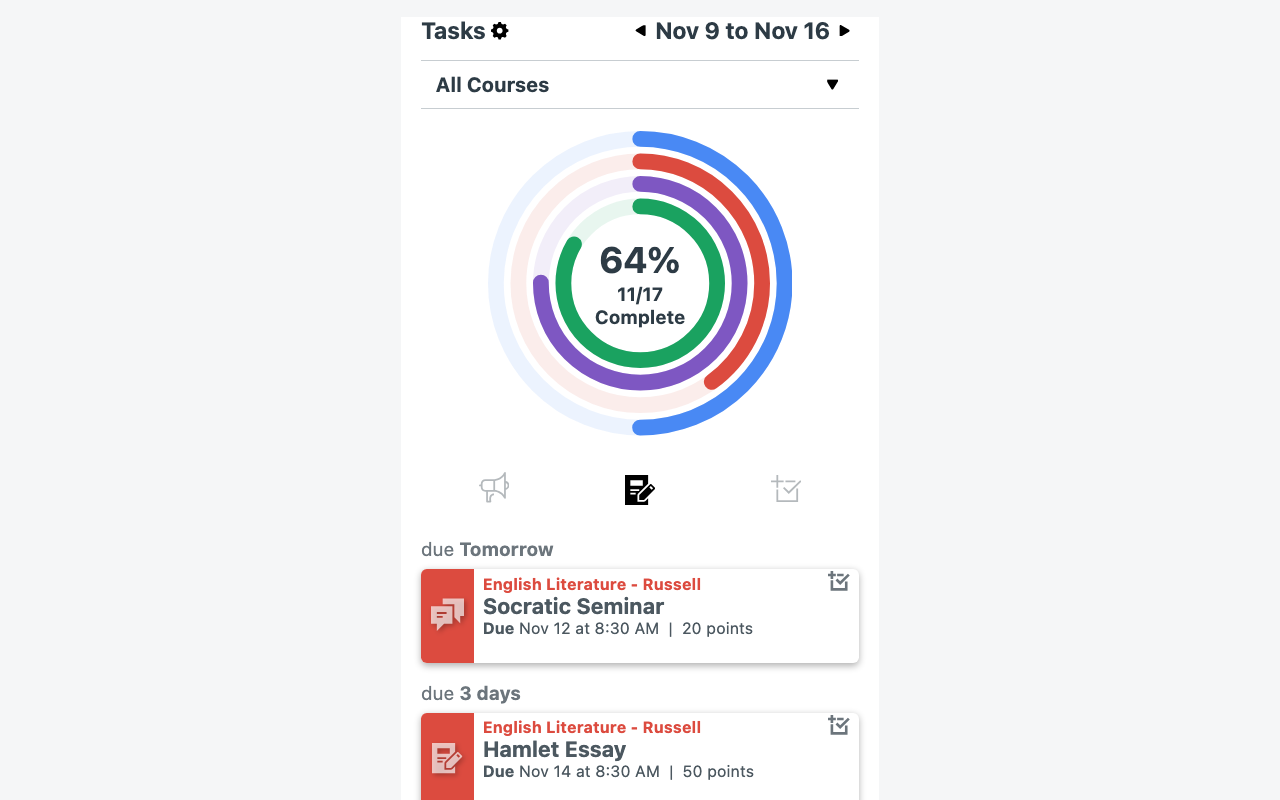
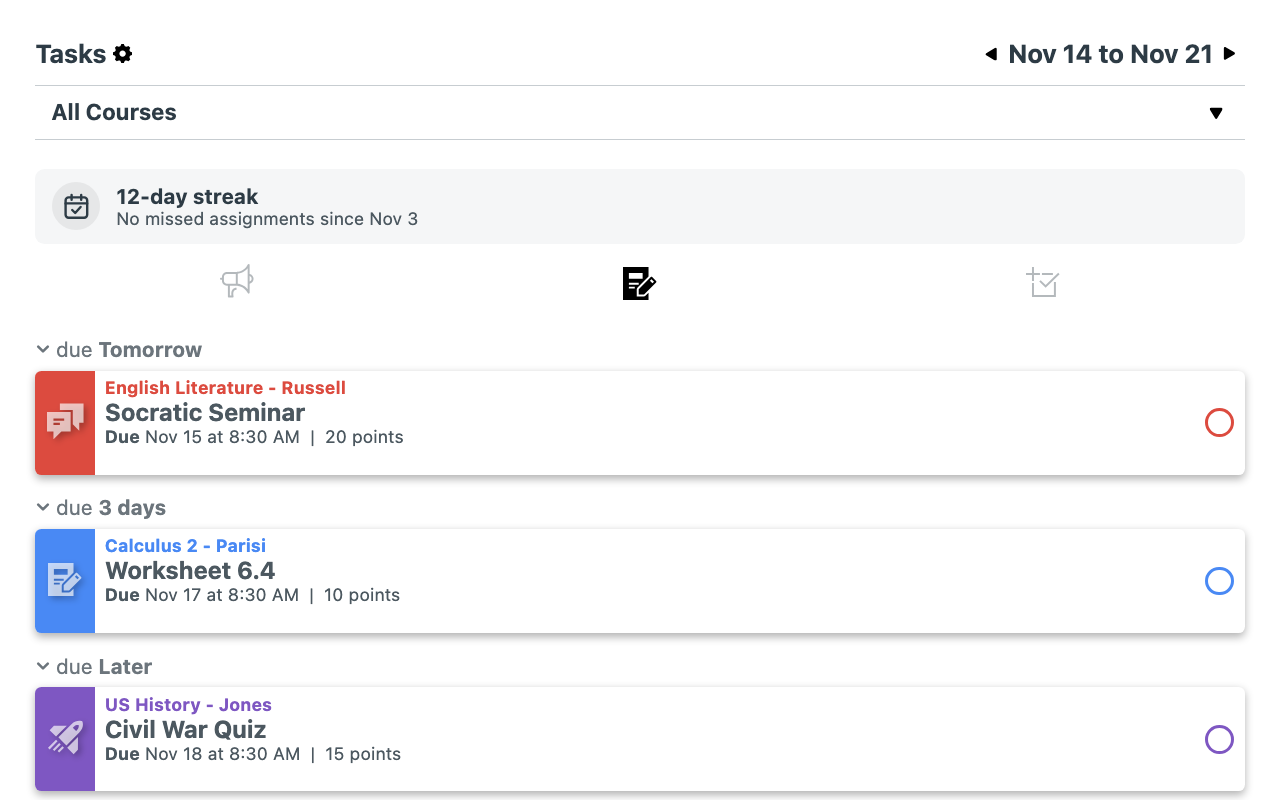
Release 1.1.0
Version bump, CHANGELOG, store listing text and reviewer notes, six new
store screenshots, and README/website feature lists. Descriptions now say
Canvas and Blackboard (D2L paused).

diff --git a/docs/index.html b/docs/index.html
@@ -6,7 +6,7 @@
     <title>Due This Week – a free, private to-do sidebar for Canvas</title>
     <meta
       name="description"
-      content="Due This Week is a free, private browser extension that adds a weekly to-do list and progress chart to your Canvas, Blackboard, or D2L Brightspace dashboard."
+      content="Due This Week is a free, private browser extension that adds a weekly to-do list and progress chart to your Canvas or Blackboard dashboard."
     />
     <link rel="icon" href="logo.png" />
     <link rel="stylesheet" href="style.css" />
@@ -18,8 +18,7 @@
         <div>
           <h1>Due This Week</h1>
           <p class="tagline">
-            A free, private to-do sidebar for Canvas LMS, Blackboard, and D2L
-            Brightspace.
+            A free, private to-do sidebar for Canvas LMS and Blackboard.
           </p>
         </div>
       </header>
@@ -34,7 +33,17 @@
       <ul>
         <li>Weekly to-do list built from your real assignments and due dates</li>
         <li>Progress rings for each course, in your dashboard colors</li>
-        <li>Mark items complete and add your own custom tasks</li>
+        <li>
+          Check items off with one click, and add your own custom tasks
+        </li>
+        <li>
+          A streak that counts the days since you last missed an assignment
+          (Canvas)
+        </li>
+        <li>
+          A &ldquo;due Later&rdquo; section for work due in the next two
+          weeks, with headings you can collapse
+        </li>
         <li>Day, three-day, week, or month views, plus a rolling view</li>
         <li>Optional Gradescope integration</li>
         <li>Ungraded-work view for teachers and TAs</li>

diff --git a/store/LISTING.md b/store/LISTING.md
@@ -12,7 +12,7 @@ Requirements were checked against Microsoft's "Publish a Microsoft Edge extensio
 ---
 
 ## 1. Package
-Upload **`due-this-week-1.0.0.zip`**, made with `npm run package`. It's built from a clean `npm run build`, with `manifest.json` at the root of the zip.
+Upload **`due-this-week-<version>.zip`** (for example `due-this-week-1.1.0.zip`), made with `npm run package`. It's built from a clean `npm run build`, with `manifest.json` at the root of the zip.
 
 ## 2. Availability
 - **Visibility:** `Hidden` for the first submission. You can check the live listing through its URL, then switch to `Public`. (Or choose `Public` right away.)
@@ -29,7 +29,7 @@ Upload **`due-this-week-1.0.0.zip`**, made with `npm run package`. It's built fr
 ## 4. Privacy
 
 **Single purpose description**
-> Shows students and teachers a weekly to-do list and progress chart of their course assignments in the sidebar of their school's learning management system dashboard (Canvas LMS, Blackboard, or D2L Brightspace).
+> Shows students and teachers a weekly to-do list and progress chart of their course assignments in the sidebar of their school's learning management system dashboard (Canvas LMS or Blackboard).
 
 **Permission justification**
 
@@ -37,7 +37,7 @@ Upload **`due-this-week-1.0.0.zip`**, made with `npm run package`. It's built fr
 > Saves the user's display settings (week start day, time period, theme color, which panels to show) and, if the optional Gradescope integration is used, a local cache of Gradescope assignments so they can be shown on the dashboard. No data is sent anywhere.
 
 Host permission / content script on `https://*/*`
-> Schools host their learning management systems on their own custom domains (for example canvas.myschool.edu or learn.school.edu), so the extension can't list them in advance. The content script runs on https pages only to check whether the page is a supported LMS dashboard (Canvas, Blackboard, D2L Brightspace, or Gradescope). On any other site it does nothing else and stops right away. On a supported LMS it calls that same site's API with the user's existing session to read their assignments and to save "mark complete" and custom tasks back to their own account. It never sends data to the developer or any third party, and it injects no styles into non-LMS pages.
+> Schools host their learning management systems on their own custom domains (for example canvas.myschool.edu or learn.school.edu), so the extension can't list them in advance. The content script runs on https pages only to check whether the page is a supported LMS dashboard (Canvas, Blackboard, or Gradescope). On any other site it does nothing else and stops right away. On a supported LMS it calls that same site's API with the user's existing session to read their assignments and to save "mark complete" and custom tasks back to their own account. It never sends data to the developer or any third party, and it injects no styles into non-LMS pages.
 
 **Are you using remote code?**
 > **No, I am not using remote code.** All JavaScript is bundled in the package (Manifest V3). It loads no remote scripts, fonts, or configuration.
@@ -54,16 +54,18 @@ Host permission / content script on `https://*/*`
 
 **Extension name** and **short description** come from `manifest.json` automatically:
 - Name: *Due This Week: To-Do Sidebar for Canvas LMS*
-- Short description: *Free, private weekly to-do sidebar for Canvas, Blackboard, and D2L Brightspace. Unofficial; not affiliated with Instructure.*
+- Short description: *Free, private weekly to-do sidebar for Canvas and Blackboard. Unofficial; not affiliated with Instructure.*
 
 **Description** (must be 250+ characters; this one is about 1,900)
 ```
-Due This Week adds a clean weekly to-do list and progress chart to your school dashboard, so you can see everything due this week at a glance. It works with Canvas LMS, Blackboard, and D2L Brightspace.
+Due This Week adds a clean weekly to-do list and progress chart to your school dashboard, so you can see everything due this week at a glance. It works with Canvas LMS and Blackboard.
 
 WHAT YOU GET
 • A to-do list built from your real assignments, quizzes, discussions, and due dates
 • Progress rings for each course, in your own dashboard colors
-• Mark items complete, or add your own custom tasks (with optional links and weekly repeats)
+• Check items off with one click, or add your own custom tasks (with optional links and weekly repeats)
+• A streak that counts the days since you last missed an assignment (Canvas), so you can keep it going
+• A "due Later" section for work due in the next two weeks, and headings you can collapse
 • Day, three-day, week, or month views, plus a "rolling" view that starts today
 • Overdue and missing work, so nothing slips through the cracks
 • Optional Gradescope integration that adds your Gradescope assignments to the list
@@ -78,7 +80,7 @@ PRIVATE BY DESIGN
 
 HOW TO USE
 1. Install the extension.
-2. Open your Canvas (or Blackboard or Brightspace) dashboard.
+2. Open your Canvas (or Blackboard) dashboard.
 3. Your weekly to-do list appears in the right sidebar. Click the gear icon to change settings.
 
 Want to try it first? Open the live demo with sample data:
@@ -86,19 +88,20 @@ https://samfrazier.github.io/due-this-week/demo.html
 
 Due This Week is a free, open-source fork of the "Tasks for Canvas" extension by Jeff Cheng (MIT License), with tracking removed and updated for Microsoft Edge.
 
-Due This Week is an unofficial extension and is not affiliated with, endorsed by, or sponsored by Instructure (Canvas), Anthology (Blackboard), D2L, or Gradescope. Canvas is a trademark of Instructure, Inc.
+Due This Week is an unofficial extension and is not affiliated with, endorsed by, or sponsored by Instructure (Canvas), Anthology (Blackboard), or Gradescope. Canvas is a trademark of Instructure, Inc.
 
 Source code and support: https://github.com/samfrazier/due-this-week
 ```
 
 **Extension logo:** `store/logo-300.png` (300×300)
 
-**Screenshots** (optional, up to 6, **1280×800** or 640×480). Ready in `store/screenshots/`, all 1280×800 with sample data only, so no real student information appears. Upload them in this order:
-1. `1-dashboard.png`: the sidebar on a Canvas-style dashboard
-2. `2-sidebar-closeup.png`: progress rings and upcoming assignments, up close
+**Screenshots** (optional, up to 6, **1280×800** or 640×480). Ready in `store/screenshots/`, all 1280×800 with sample data only, so no real student information appears. Upload them in this order (for an update, delete the old ones in Partner Center first):
+1. `1-dashboard.png`: the sidebar on a Canvas-style dashboard, with the streak banner
+2. `2-sidebar-closeup.png`: streak, circle check buttons, and the "due Later" heading, up close
 3. `3-new-task.png`: adding a custom task (date, link, weekly repeat, course)
 4. `4-completed.png`: the Completed tab
-5. `5-settings.png`: the Settings page
+5. `5-settings.png`: Settings, including the new "Show streak" and "Use circle check buttons" options
+6. `6-dark-mode.png`: the sidebar in dark mode
 
 These were made by rendering the real built extension code (demo mode, default settings) in headless Microsoft Edge.
 
@@ -110,10 +113,28 @@ assignments
 student planner
 homework tracker
 blackboard
-brightspace
+study planner
 ```
 
 ## Updates: notes for certification
+
+### 1.1.0
+```
+Update 1.0.1 → 1.1.0: new sidebar features. No new permissions.
+
+New:
+- Round "check off" buttons on each task card (the previous icon remains available in Settings).
+- A streak banner on Canvas: the number of days since the student last missed an assignment. It is computed locally in the browser from the student's own Canvas planner (same school site and same API the sidebar already uses). Nothing is sent to the developer or any third party. It can be turned off in Settings ("Show streak").
+- A "due Later" heading, and the to-do list now also shows work due in the next two weeks.
+- Task-list headings can be collapsed; the collapsed state is saved in chrome.storage.local on the device.
+
+Changed:
+- D2L Brightspace support is paused: removed from the description and the sidebar no longer runs on D2L pages.
+
+Permissions are unchanged ("storage" only). No remote code, analytics, or external requests.
+
+To test: open https://samfrazier.github.io/due-this-week/demo.html with the extension installed. The demo shows a sample 12-day streak, round check buttons, and a "due Later" heading; click a heading to collapse it. The new options are at the toolbar icon → Settings ("Show streak", "Use circle check buttons").
+```
 
 ### 1.0.1
 ```

diff --git a/CHANGELOG.md b/CHANGELOG.md
@@ -2,6 +2,20 @@
 
 All notable changes to Due This Week. Versions follow [semantic versioning](https://semver.org/): fixes are 1.0.x, new features are 1.x.0.
 
+## 1.1.0 (November 2026)
+### Added
+- **Circle check buttons.** Click the circle in the course color on any card to check it off; click it again on the Completed tab to undo. The classic icon is still available in Settings (*Use circle check buttons*).
+- **Streak banner (Canvas).** Counts the days in a row since you last missed an assignment. Only work Canvas marks *missing* breaks it; late, excused, checked-off items, and custom tasks never do. Looks back about one semester ("120+ days" beyond that), always counts all your courses, and turns amber when something is still due today. Computed entirely in your browser. Turn it off in Settings (*Show streak*).
+- **"due Later" heading.** Overdue, Today, Tomorrow, 2 days, and 3 days are unchanged; anything 4 or more days out is grouped under *due Later*. When viewing the current period, the list also shows work due in the next 14 days (the progress rings still count only the selected period).
+- **Collapsible headings.** Click any heading to hide or show its group; a collapsed heading shows its count, e.g. *due Later (5)*. Remembered per device.
+
+### Changed
+- **D2L Brightspace is paused.** It's no longer listed as supported and the sidebar no longer appears on D2L until a tester can confirm it works.
+- The classic check icon and the New Task close button are now real buttons, so they work with the keyboard and screen readers.
+
+### Internal
+- No new permissions (still `storage` only) and no new data leaves the browser. The streak reads the student's own Canvas planner from the school's site, like the rest of the sidebar.
+
 ## 1.0.1 (November 2026)
 ### Changed
 - **Settings now uses the Due This Week blue** (`#0079EE`) instead of the old red, matching the logo

diff --git a/README.md b/README.md
@@ -4,9 +4,9 @@
 
 **A free, private to-do sidebar for Canvas LMS, built for Microsoft Edge.**
 
-Ever had trouble finding your weekly assignments? Due This Week adds a clean to-do list and progress chart to your Canvas dashboard, so you can see everything due this week at a glance. It also works with Blackboard and D2L Brightspace.
+Ever had trouble finding your weekly assignments? Due This Week adds a clean to-do list and progress chart to your Canvas dashboard, so you can see everything due this week at a glance. It also works with Blackboard.
 
-> **Unofficial.** Due This Week is not affiliated with, endorsed by, or sponsored by Instructure, Inc. (Canvas), Anthology (Blackboard), or D2L. "Canvas" is a trademark of Instructure, Inc.
+> **Unofficial.** Due This Week is not affiliated with, endorsed by, or sponsored by Instructure, Inc. (Canvas), or Anthology (Blackboard). "Canvas" is a trademark of Instructure, Inc.
 
 ## Privacy
 - **No accounts, no tracking, no analytics.**
@@ -36,6 +36,12 @@ Progress bars for each course show how much of this week's work you've finished.
 Task items and progress bars follow your Canvas dashboard colors and course order. You can add your own custom tasks too.
 
 ![](screenshots/Screenshot3.png)
+
+### New in 1.1
+- **Circle check buttons:** click the circle on any card to check it off (or switch back to the classic icon in Settings).
+- **Streak (Canvas):** counts the days in a row since you last missed an assignment. Only *missing* work breaks it; late, excused, and checked-off items don't. Computed in your browser.
+- **Due later:** work due 4 or more days out is grouped under one heading, and the list looks up to two weeks ahead.
+- **Collapsible headings:** click a heading to hide or show that group.
 
 ### Notes
 - The sidebar works on the Canvas dashboard in Card View, List View, and Recent Activity.
